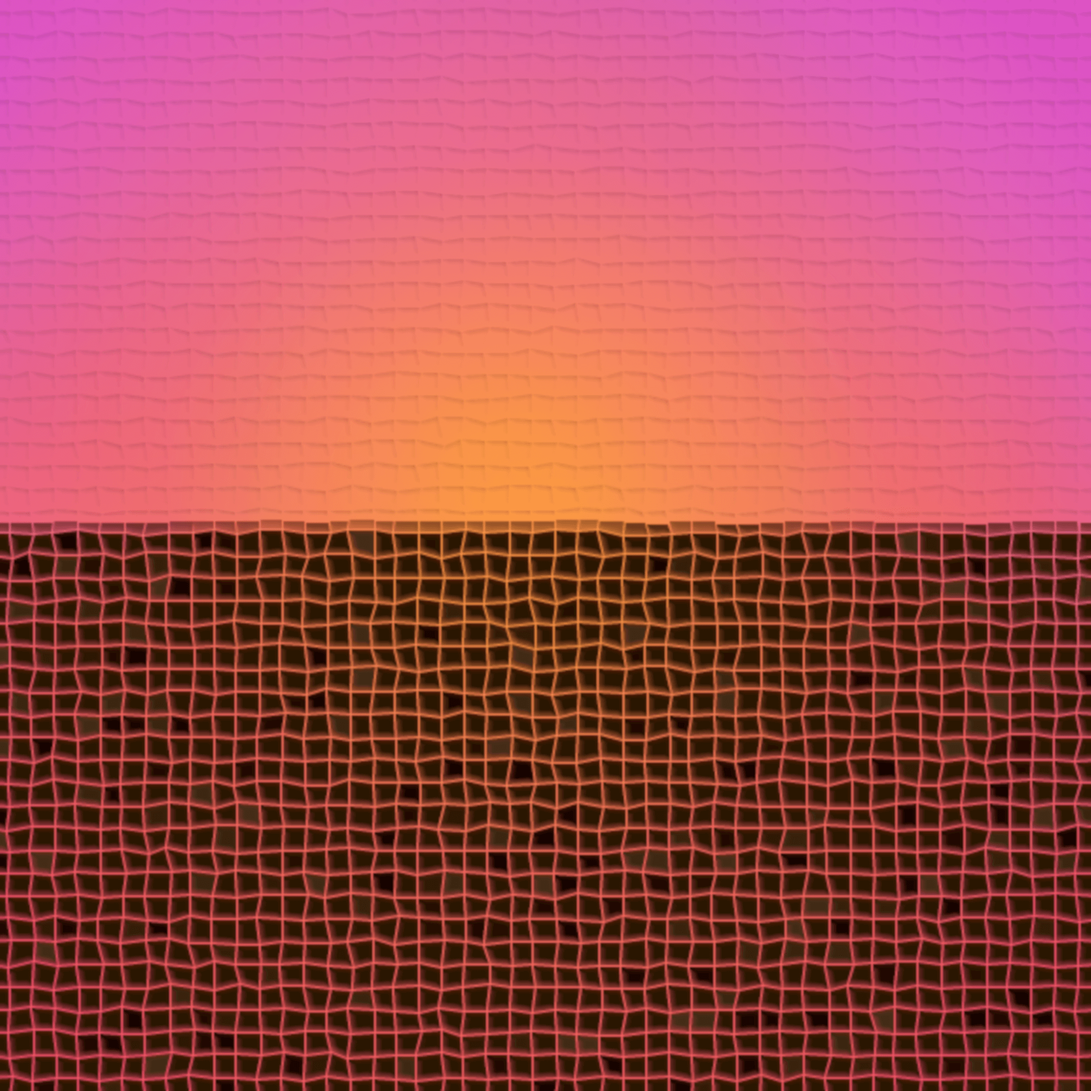
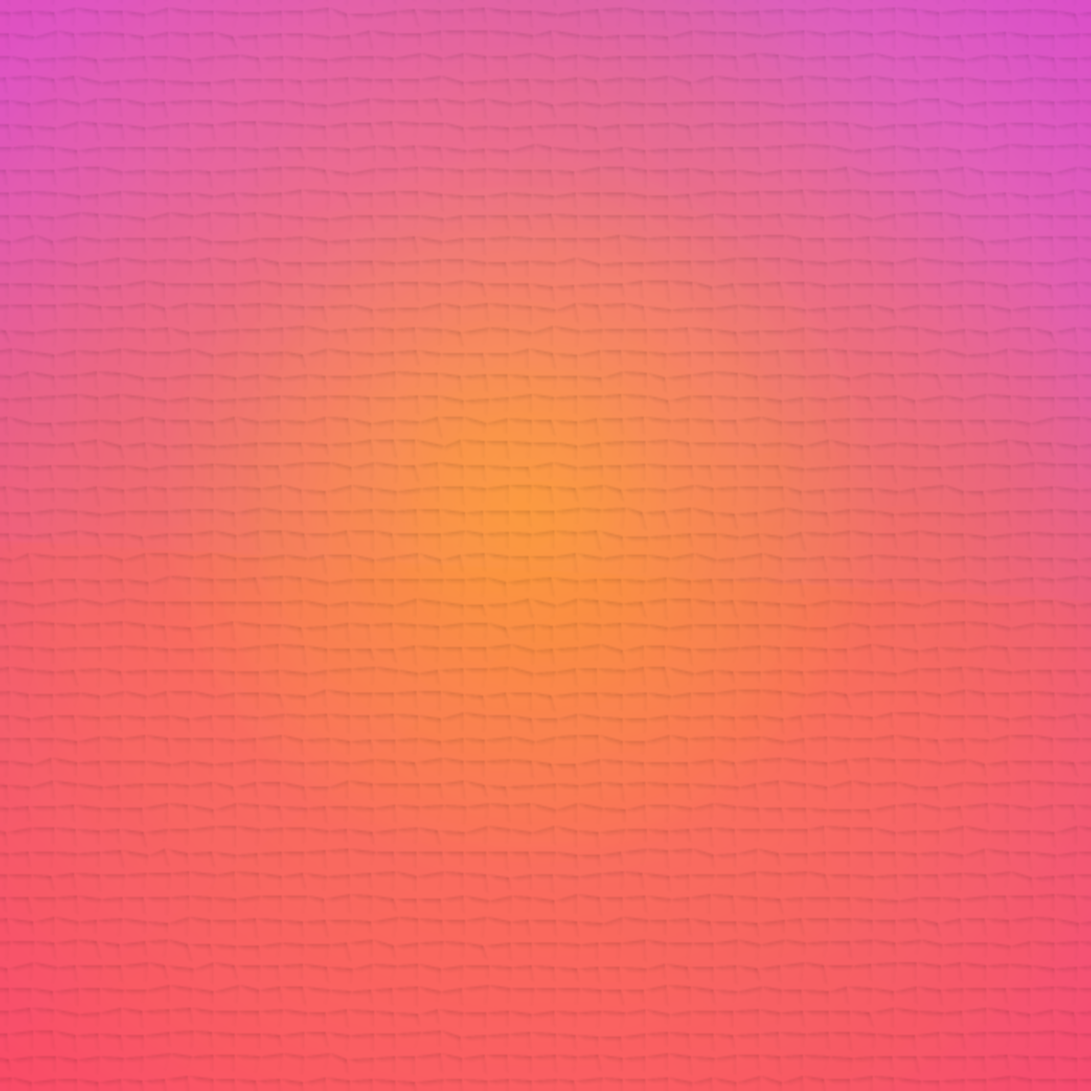
can manually dig

diff --git a/web/scripts/World.dart b/web/scripts/World.dart
@@ -1,30 +1,60 @@
 import 'dart:html';
+import 'package:LoaderLib/Loader.dart';
 
 class World {
-    CanvasElement canvas = new CanvasElement(width:1000,height:1000);
+
+
     //TODO probably seperate out the camera into its own thing
     int cameraUpperLeftX = -500;
     int cameraUpperLeftY = -500;
-    int cameraWidth = 1000;
-    int cameraHeight = 1000;
+    static int cameraWidth = 1000;
+    static int cameraHeight = 1000;
     int minHeight = -1000;
     int maxHeight = 0;
-
+    int minWidth = -1000;
+    int maxWidth = 0;
+    CanvasElement screenCanvas = new CanvasElement(width:cameraWidth,height:cameraHeight);
+    //not just what's on screen
+    CanvasElement dirtCanvas = new CanvasElement(width:2000,height:2000);
     World() {
-
     }
 
-    void attachToScreen(Element container) {
-        container.append(canvas);
+    void attachToScreen(Element container) async {
+        container.append(screenCanvas);
+        ImageElement img = await Loader.getResource("images/dirtbox.png");
+        dirtCanvas.context2D.drawImage(img,0,0);
+
         //TODO figure out what portion of the image to render.
-        canvas.style.backgroundImage = "url(images/skybox.png)";
+        screenCanvas.style.backgroundImage = "url(images/skybox.png)";
         syncCamera();
-        canvas.onMouseMove.listen((MouseEvent e) {
-            Rectangle rect = canvas.getBoundingClientRect();
+        bool mouseDown = false;
+
+        screenCanvas.onMouseMove.listen((MouseEvent e) {
+            Rectangle rect = screenCanvas.getBoundingClientRect();
             Point point = new Point(e.client.x-rect.left, e.client.y-rect.top);
             moveCamera(point);
-
+            if(mouseDown) {
+                removeChunk(point);
+            }
         });
+
+
+        screenCanvas.onMouseDown.listen((MouseEvent e) {
+            mouseDown = true;
+        });
+
+        screenCanvas.onMouseUp.listen((MouseEvent e) {
+            mouseDown = false;
+        });
+    }
+
+    void removeChunk(Point point) {
+        double x = point.x -cameraUpperLeftX;
+        double y = point.y -cameraUpperLeftY;
+        print("removing chunk at position ${x} , ${y}");
+        int size = 13;
+        dirtCanvas.context2D.clearRect(x-size/2,y-size/2,size, size);
+        syncCamera();
     }
 
     void moveCamera(Point p) {
@@ -44,13 +74,17 @@ class World {
 
         if(cameraUpperLeftY > maxHeight) cameraUpperLeftY = maxHeight;
         if(cameraUpperLeftY < minHeight) cameraUpperLeftY = minHeight;
+        if(cameraUpperLeftX < minWidth) cameraUpperLeftX = minWidth;
+        if(cameraUpperLeftX > maxWidth) cameraUpperLeftX = maxWidth;
 
         syncCamera();
     }
 
     void syncCamera() {
         print("syncing camera to ${cameraUpperLeftX}px ${cameraUpperLeftY}px ");
-        canvas.style.backgroundPosition = "${cameraUpperLeftX}px ${cameraUpperLeftY}px";
+        screenCanvas.style.backgroundPosition = "${cameraUpperLeftX}px ${cameraUpperLeftY}px";
+        screenCanvas.context2D.clearRect(0,0,cameraWidth, cameraHeight);
+        screenCanvas.context2D.drawImage(dirtCanvas, cameraUpperLeftX, cameraUpperLeftY);
     }
 
 }

diff --git a/web/index.html b/web/index.html
@@ -15,6 +15,9 @@
 <body>
 
   <div id="output"></div>
+TODO
+<li>ai figures that have gravity until they find a solid patch to walk on</li>
+<li>ai figures can dig</li>
 
 </body>
 </html>
